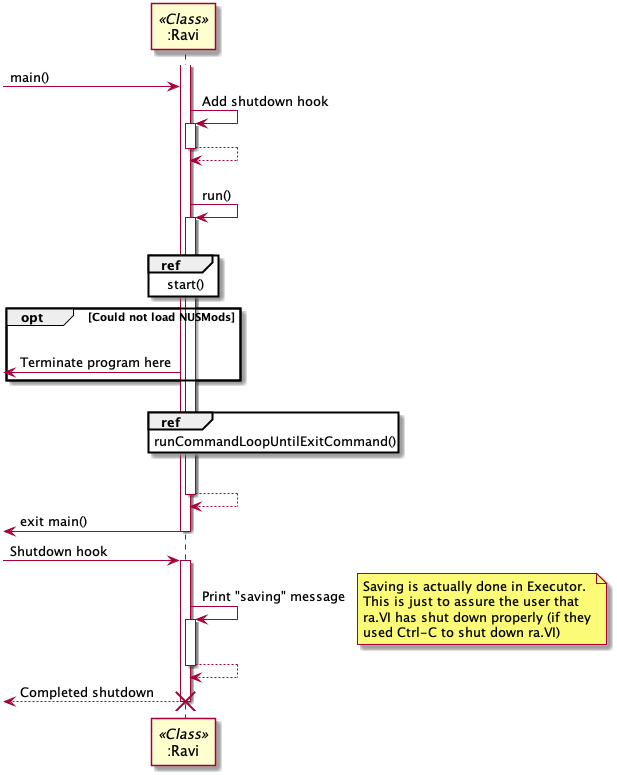
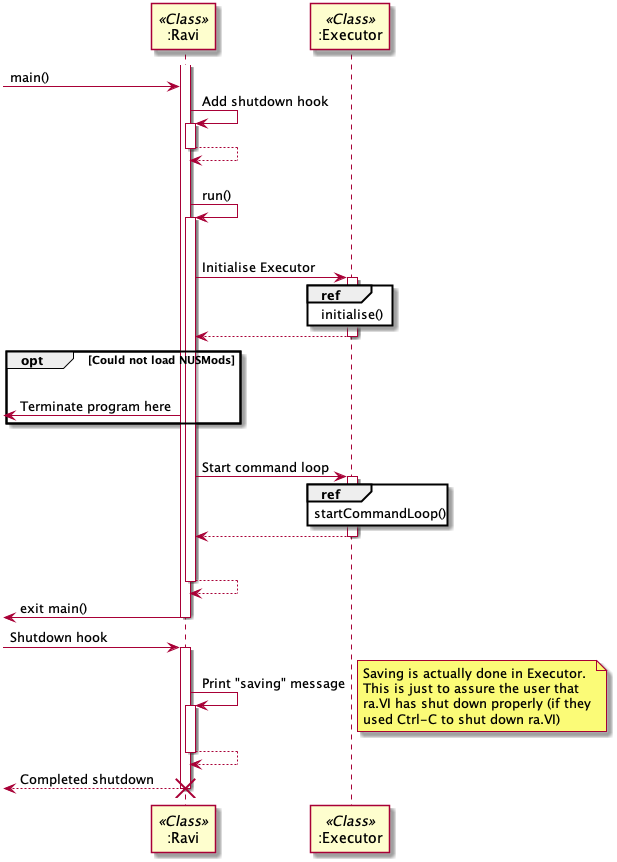
Updates for DG and diagrams; moved more stuff to Executor

diff --git a/src/main/java/seedu/ravi/Ravi.java b/src/main/java/seedu/ravi/Ravi.java
@@ -1,17 +1,13 @@
 package seedu.ravi;
 
 import org.fusesource.jansi.AnsiConsole;
-import seedu.ravi.command.CommandResult;
-import seedu.ravi.command.IncorrectCommand;
-import seedu.ravi.data.StateManager;
-import seedu.ravi.data.TimeTableManager;
-import seedu.ravi.data.storage.InputOutputManager;
-import seedu.ravi.exception.NusModsNotLoadedException;
-import seedu.ravi.ui.TextUi;
-
 import java.io.FileNotFoundException;
 import java.util.NoSuchElementException;
 import java.util.Scanner;
+
+import seedu.ravi.command.IncorrectCommand;
+import seedu.ravi.exception.NusModsNotLoadedException;
+import seedu.ravi.ui.TextUi;
 
 import static seedu.ravi.util.ExceptionMessage.MESSAGE_NUS_MODS_NOT_LOADED;
 import static seedu.ravi.util.Message.MESSAGE_SHUTDOWN;
@@ -47,13 +43,7 @@ public class Ravi {
      */
     private static void start(String[] args) throws NusModsNotLoadedException {
         TextUi.initialiseTextUi(new Scanner(System.in));
-        int loadStatus = InputOutputManager.start();
-        StateManager.initialise();
-        TextUi.showWelcomeMessage(loadStatus);
-        InputOutputManager.saveNusMods();
-        while (!TimeTableManager.isInitialised()) {
-            TimeTableManager.initialiseTimetable();
-        }
+        Executor.initialise();
         logger.getLogger().info("Initialised scanner, UI, and IO");
     }
 
@@ -66,29 +56,13 @@ public class Ravi {
         logger.getLogger().info("STARTING PROGRAM...");
         try {
             start(args);
-            runCommandLoopUntilExitCommand();
+            logger.getLogger().info("ENTERING COMMAND LOOP");
+            Executor.startCommandLoop();
         } catch (NusModsNotLoadedException e) {
             // Show NUSMods not loaded error message if NUSMods not loaded and crash!
             TextUi.showResultToUser(new IncorrectCommand(MESSAGE_NUS_MODS_NOT_LOADED).execute());
         } catch (NoSuchElementException ignored) {
             // User has entered ctrl-c
         }
-    }
-
-    /**
-     * Reads the user command and executes it, until the user issues the exit command.
-     *
-     * @throws NoSuchElementException
-     *  When the user input is ctrl-c.
-     */
-    private static void runCommandLoopUntilExitCommand() throws NoSuchElementException {
-        logger.getLogger().info("ENTERING COMMAND LOOP");
-        CommandResult result;
-        String userInput;
-        do {
-            userInput = TextUi.getUserCommand();
-            result = Executor.executeCommand(userInput); // Saves state too
-            TextUi.showResultToUser(result);
-        } while (!result.isExit);
     }
 }

diff --git a/src/main/java/seedu/ravi/Executor.java b/src/main/java/seedu/ravi/Executor.java
@@ -4,8 +4,11 @@ import seedu.ravi.command.Command;
 import seedu.ravi.command.CommandResult;
 import seedu.ravi.command.PromptType;
 import seedu.ravi.data.StateManager;
+import seedu.ravi.data.TimeTableManager;
 import seedu.ravi.data.storage.InputOutputManager;
+import seedu.ravi.exception.NusModsNotLoadedException;
 import seedu.ravi.parser.Parser;
+import seedu.ravi.ui.TextUi;
 
 public class Executor {
     /**
@@ -24,5 +27,34 @@ public class Executor {
         }
 
         return result;
+    }
+
+    /**
+     * Initialises all classes that need to be initialised.
+     *
+     * @throws NusModsNotLoadedException
+     *  If the InputOutputManager cannot load any NUSMods data
+     */
+    public static void initialise() throws NusModsNotLoadedException {
+        int loadStatus = InputOutputManager.start();
+        StateManager.initialise();
+        TextUi.showWelcomeMessage(loadStatus);
+        InputOutputManager.saveNusMods();
+        while (!TimeTableManager.isInitialised()) {
+            TimeTableManager.initialiseTimetable();
+        }
+    }
+
+    /**
+     * Carries out the command loop and exits when result.isExit is true.
+     */
+    public static void startCommandLoop() {
+        CommandResult result;
+        String userInput;
+        do {
+            userInput = TextUi.getUserCommand();
+            result = Executor.executeCommand(userInput); // Saves state too
+            TextUi.showResultToUser(result);
+        } while (!result.isExit);
     }
 }

diff --git a/docs/DeveloperGuide.md b/docs/DeveloperGuide.md
@@ -8,9 +8,6 @@ Work in progress
 ## Setting up
 The following section describes how to set up ra.VI on your own computer.
 
-Testing! I hope this works.
-{: .alert .alert-danger}
-
 ### Software Prerequisites
 
 1. **JDK** 11
@@ -56,9 +53,10 @@ sections.
 The main class holds the main loop. 
 Most classes used by the main class are static in nature and do not need to be instantiated. 
 
-The `Command` and `CommandResult` objects are dependencies of Executor in addition to `Ravi`. `Executor` can be
-viewed as a simple layer of abstraction on top of `Command` and `CommandResult` to facilitate the execution of user
-commands. `Command` is a dependency of `Parser` as `Parser` creates `Command` objects to return to the main loop.
+`Executor` can be viewed as a simple layer of abstraction on top of `Command`, `CommandResult`, `StateManager`,
+`TimeTableManager`, `InputOutputManager` to facilitate the execution of user commands, while reducing the dependencies
+of the main class. `Command` is a dependency of `Parser` as `Parser` creates `Command` objects to return to the main
+loop.
 
 ![Sequence diagram 1 for Main loop](https://github.com/AY2021S1-CS2113T-T09-2/tp/blob/master/docs/diagrams/MainSequenceDiagram.png?raw=true)
 
@@ -106,14 +104,16 @@ There is a validation loop to catch invalid user input.
 The main loop is contained in the `runCommandLoopUntilExitCommand()` method.
 The main loop follows the following steps:
 1. Get the user input as a string.
-2. Parse the input using `Parser`. `Parser` will return a `Command` object.
-3. Execute the `Command` object with the `execute()` method. This will do the necessary work and return a
+2. Send the user input to `Executor`.
+2. `Executor` parses the input using `Parser` and gets a `Command` object.
+3. It then executes the `Command` object with the `execute()` method. This will do the necessary work and return a
 `CommandResult` object.
-4. If any data was changed, `StateManager` will run `saveState()` to facilitate undo commands, and `InputOutputManager`
-will run `save()` to save all user data as a measure against unexpected shutdowns.
+4. If any data was changed, `Executor` runs `StateManager`'s `saveState()` to facilitate undo commands, and
+`InputOutputManager`'s `save()` to save all user data as a measure against unexpected shutdowns.
 5. Finally, use the `CommandResult` object to show the result of the `Command` to the user using `TextUi`.
 
-Note that the `Command` and `CommandResult` objects are destroyed after use.
+> :exclamation: Note that the `Executor` class wraps the `InputOutputManager` class
+
 
 #### Command Family
 
@@ -226,7 +226,10 @@ to return through `parseTimeTableCommand()`. If the `TimeTableCommand` is return
 
 ----
 
-### Feature explanation
+### Implementation
+
+This section serves to **provide an overview of how certain features are implemented**, not provide a comprehensive
+explanation of all features in ra.VI.
 
 #### Add/Delete Feature
 This feature is facilitated by the `TaskManager`, `ModuleManager` classes.
@@ -454,8 +457,9 @@ Given below is an example scenario to reset the timetable.
 ### [Proposed] Notes Feature
 ![Class diagram for Notes Feature in Command class](https://github.com/AY2021S1-CS2113T-T09-2/tp/blob/master/docs/diagrams/NotesClassDiagram.png?raw=true)
 
-The proposed notes feature is facililated by the NotesManager class and NotesCommand class
-Extending from the abstract NotesCommand class are the NotesAddCommand, NotesListCommand, NotesDeleteCommand, and NotesViewCommand classes. 
+The proposed notes feature is facilitated by the `NotesManager` class and abstract `NotesCommand` class
+Extending from the abstract `NotesCommand` class are the `NotesAddCommand`, `NotesListCommand`, `NotesDeleteCommand`,
+and `NotesViewCommand` classes. 
 
 It implements the following operations:
 * `NotesManager.addNote()` - Add a note
@@ -467,30 +471,34 @@ It implements the following operations:
 Given below is an example scenario to add a note and how the notes feature behave at each step
 
 Step 1. The user inputs `note -add Orbital Mechanics: Application of ballistics and celestial mechanics`, as the user wants to add a note.
-Step 2. This input is parsed by NotesCommandParser and it returns NotesAddCommand. 
-Step 3. NotesAddCommand is executed, returning a `CommandResult` containing a success message if the note has been added successfully. Otherwise, an exception message will be shown explaining the exception to the user.
+Step 2. This input is parsed by `NotesCommandParser` and it returns `NotesAddCommand`. 
+Step 3. `NotesAddCommand` is executed, returning a `CommandResult` containing a success message if the note has been
+added successfully. Otherwise, an error message will be shown explaining the error to the user.
 
 #### Viewing list of notes
 Given below is an example scenario to view the list of notes and how the notes feature behaves at each step.
 
 Step 1. The user inputs `note -list` as the user wants to view the list of notes.
-Step 2. This input is parsed by NotesCommandParser and it returns NotesListCommand.
-Step 3. NotesListCommand is executed, returning a `CommandResult` containing the list of notes and their indexes. Otherwise, an exception message will be shown explaining the exception to the user. 
+Step 2. This input is parsed by `NotesCommandParser` and it returns `NotesListCommand`.
+Step 3. `NotesListCommand` is executed, returning a `CommandResult` containing the list of notes and their indexes.
+Otherwise, an error message will be shown explaining the error to the user. 
 
 #### Delete a note
 Given below is an example scenario to delete a note and how the notes feature behaves at each step.
 
 Step 1. The user inputs `note -del 1` as the user wants to delete the note with index 1.
-Step 2. This input is parsed by NotesCommandParser and it returns NotesDeleteCommand.
-Step 3. NotesDeleteCommand is executed, returning a `CommandResult` containing a success message if the note has been deleted successfully. Otherwise, an exception message will be shown explaining the exception to the user. 
+Step 2. This input is parsed by `NotesCommandParser` and it returns `NotesDeleteCommand`.
+Step 3. `NotesDeleteCommand` is executed, returning a `CommandResult` containing a success message if the note has been
+deleted successfully. Otherwise, an error message will be shown explaining the error to the user. 
 
 * Currently available notes and their indexes can be found by entering `notes -list`
 
 #### View the timetable
 Given below is an example scenario to view a particular note in the list
 Step 1. The user inputs `note -view 1` as the user wants to view the note with index 1.
-Step 2. This input is parsed by NotesCommandParser and it returns NotesDeleteCommand.
-Step 3. NotesViewCommand is executed, returning a `CommandResult` containing a the note if the note has been shown successfully. Otherwise, an exception message will be shown explaining the exception to the user. 
+Step 2. This input is parsed by NotesCommandParser and it returns `NotesDeleteCommand`.
+Step 3. `NotesViewCommand` is executed, returning a `CommandResult` containing the note if the note has been shown
+successfully. Otherwise, an error message will be shown explaining the error to the user. 
 
 ## Appendix A: Product scope
 ### Target user profile
@@ -503,14 +511,15 @@ The target user profile for ra.VI is described by the following:
 * Prefers typing to mouse interactions
 * Reasonably comfortable using CLI apps
 
-### Value proposition
+### Appendix A: Value proposition
 
 A common problem amongst freshmen is the inability to organise all the incoming information.  
 NUS places a focus on taking responsibility for your own learning, so it might be a tough transition from tertiary education.  
 A lot of students miss lessons, assignments, and even exams, just because they're struggling to adapt to the new
 environment.
 
-ra.VI helps students to manage their school-related information in a compact, stripped-down interface that does not bombard them with too much information.  
+ra.VI helps students to manage their school-related information in a compact, stripped-down interface that does not
+bombard them with too much information.  
 When you receive your modules and lessons, simply enter them into ra.VI as they arrive. ra.VI will keep track of all of it
 for you.  
 You can create tasks, give them deadlines, and tag them to certain modules. You can see all of your tasks and deadlines at a glance.  
